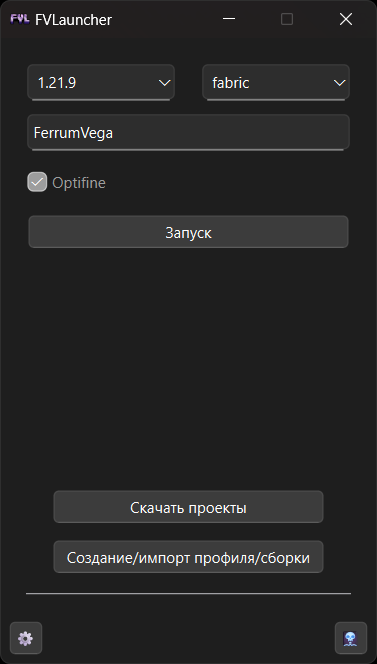
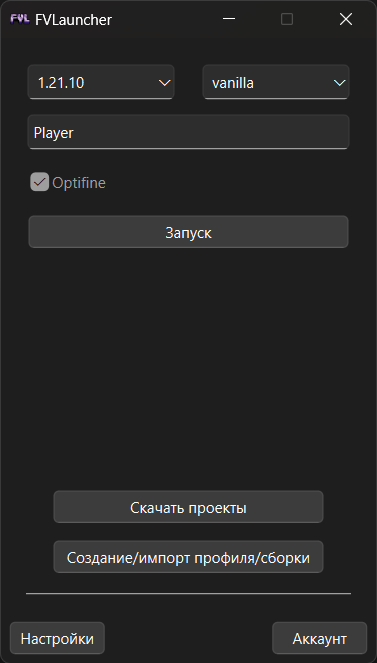
мелкие изменения и readme апдейт

diff --git a/FVLauncher/main.py b/FVLauncher/main.py
@@ -96,7 +96,7 @@ class ClickableLabel(QtWidgets.QLabel):
 
 class ProjectsSearch(QtWidgets.QDialog):
     class ProjectInfoWindow(QtWidgets.QDialog):
-        class ProjectVersionInfoWindow(QtWidgets.QDialog):
+        class ProjectLoadersChooseWindow(QtWidgets.QDialog):
             class ProjectInstallWindow(QtWidgets.QDialog):
                 def __init__(
                     self,
@@ -446,7 +446,7 @@ class ProjectsSearch(QtWidgets.QDialog):
             for mc_version in mc_versions[::-1]:
                 w = ClickableLabel(text=mc_version)
                 w.clicked.connect(
-                    lambda current_mc_version=mc_version: self.ProjectVersionInfoWindow(
+                    lambda current_mc_version=mc_version: self.ProjectLoadersChooseWindow(
                         self, self.project, current_mc_version, self.minecraft_directory
                     )
                 )
@@ -712,7 +712,9 @@ class AccountWindow(QtWidgets.QDialog):
                 main_window.access_token = data.json()["accessToken"]
                 main_window.ely_uuid = data.json()["user"]["id"]
                 QtWidgets.QMessageBox.information(
-                    self, "Поздравляем!", "Теперь вы будете видеть свой скин в игре."
+                    self,
+                    "Поздравляем!",
+                    "Теперь вы будете автоматически авторизованы на серверах, которые используют систему авторизации ely.by.",
                 )
                 logging.info(
                     "Info message showed in login: ely skin will be shown in game"
@@ -762,7 +764,7 @@ class AccountWindow(QtWidgets.QDialog):
                     f"Error message showed in signout: sign out error, {data.json()['errorMessage']}"
                 )
 
-        self.setWindowTitle("Настройки")
+        self.setWindowTitle("Аккаунт")
         self.setFixedSize(300, 500)
         self.setModal(True)
 
@@ -860,7 +862,7 @@ class ProfilesWindow(QtWidgets.QDialog):
                     )
                     QtWidgets.QMessageBox.information(
                         self,
-                        "Создание папки профиля",
+                        "Создание профиля",
                         f"Папка профиль успешно создана по пути {profile_path}",
                     )
                 elif not version_installed:
@@ -877,7 +879,7 @@ class ProfilesWindow(QtWidgets.QDialog):
                     )
 
             self.setModal(True)
-            self.setWindowTitle("Создание папки профиля")
+            self.setWindowTitle("Создание профиля")
             self.setFixedSize(300, 150)
 
             self.profile_name_entry = QtWidgets.QLineEdit(self)
@@ -1216,12 +1218,15 @@ class MainWindow(QtWidgets.QMainWindow):
             parser.write(config_file)
 
     def block_optifine_checkbox(self, *args: Any):
-        if os.path.isdir(
-            os.path.join(
-                self.minecraft_directory,
-                "profiles",
-                self.versions_combobox.currentText(),
+        if (
+            os.path.isdir(
+                os.path.join(
+                    self.minecraft_directory,
+                    "profiles",
+                    self.versions_combobox.currentText(),
+                )
             )
+            and self.versions_combobox.currentText()
         ):
             with open(
                 os.path.join(

diff --git a/FVLauncher/utils.py b/FVLauncher/utils.py
@@ -193,7 +193,7 @@ def download_injector(
                     (
                         "show_message",
                         "warning",
-                        "Ошибка скина",
+                        "Ошибка authlib",
                         "Для данной версии ещё не вышла патченая authlib, обычна она выходит в течении пяти дней после выхода версии.",
                     )
                 )
@@ -206,8 +206,8 @@ def download_injector(
                 (
                     "show_message",
                     "warning",
-                    "Ошибка скина",
-                    "На данной версии нет authlib, скины не поддерживаются.",
+                    "Ошибка authlib",
+                    "На данной версии нет authlib, скины и авторизация не поддерживаются.",
                 )
             )
             logging.warning(
@@ -218,7 +218,7 @@ def download_injector(
             (
                 "show_message",
                 "warning",
-                "Ошибка скина",
+                "Ошибка authlib",
                 "Отсутсвует подключение к интернету.",
             )
         )
@@ -686,4 +686,4 @@ def start_rich_presence(
 
 CLIENT_ID = "1399428342117175497"
 start_launcher_time = int(time.time())
-LAUNCHER_VERSION = "v6.0"
+LAUNCHER_VERSION = "v6.0.1"

diff --git a/README.md b/README.md
@@ -33,14 +33,16 @@ NOT AN OFFICIAL MINECRAFT PRODUCT. NOT APPROVED BY OR ASSOCIATED WITH MOJANG OR 
 ## Скриншоты
 
 ![Главное окно](screenshots/MainWindow.png)
-![Настройки](screenshots/SettingsWindow.png)
-![Аккаунт для системы скинов](screenshots/AccountWindow.png)
-![Поиск проектов](screenshots/ProjectsSearch.png)
-![Версии проектов](screenshots/ProjectVersions.png)
-![Загрузчики модов проекта](screenshots/ProjectLoaders.png)
-![Выбор профиля для установки проекта](screenshots/ProfileChooserForProjectDownload.png)
-![Создание/импорт профиля/сборки](screenshots/Create%20or%20import%20profile%20or%20mrpack.png)
-![Создание профиля](screenshots/CreateProfile.png)
+![Поиск проектов на Modrinth](screenshots/ProjectsSearch.png)
+![Информация о проекте](screenshots/ProjectInfoWindow.png)
+![Загрузчики модов проекта](screenshots/ProjectLoadersChooseWindow.png)
+![Выбор профиля для установки проекта](screenshots/ProjectInstallWindow.png)
+![Настройки лаунчера](screenshots/SettingsWindow.png)
+![Аккаунт ely.by](screenshots/AccountWindow.png)
+![Изменение скина](screenshots/SkinChanger.png)
+![Создание/импорт профиля/сборки](screenshots/ProfilesWindow.png)
+![Создание профиля](screenshots/CreateOwnProfile.png)
+![Окно с логом игры](screenshots/ShowLogWindow.png)
 
 ## Клонирование репозитория
 
